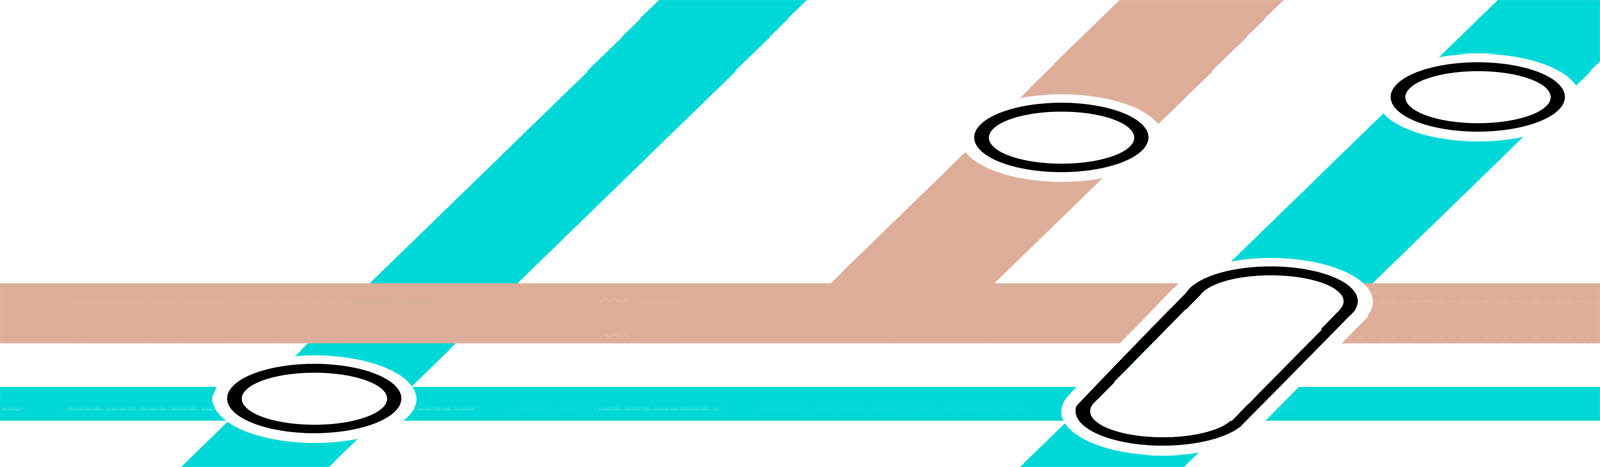
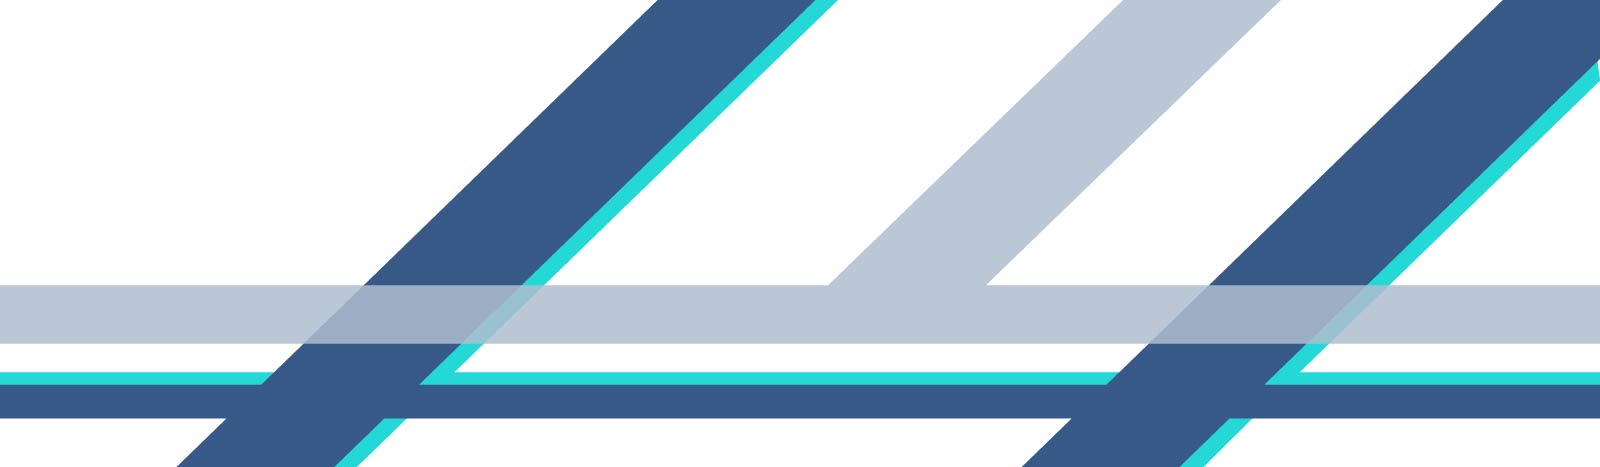
some style changes (frank)

diff --git a/src/index.html b/src/index.html
@@ -27,98 +27,116 @@
     <div class="inner">
 
 
-      <div class="hed">Transit tourism:<br>Explore Seattle by Link light rail</div>
+      <div class="hed">TRANSIT TOURISM</div>
+      <div class="divider"></div>
+      <div class="subhed">Explore Seattle by Link light rail</div>
 
       <div class="intro">
         <p class="byline">By Tyler Sipe and Lindsey Wasson
 
-        <p>It’s urban, suburban and industrial. At just over 20 miles long, Sound Transit’s Central <a href="http://www.soundtransit.org/Rider-Guide/Link-light-rail">Link Light Rail</a> connects more than a dozen diverse communities with 16 stations in King County.
+        <p>It’s urban, suburban and industrial. At just over 20 miles long, Sound Transit’s <a href="http://www.soundtransit.org/Rider-Guide/Link-light-rail">Central Link light rail</a> connects more than a dozen diverse communities with 16 stations in King County.
    
         <p>From the University of Washington on the north end, to SeaTac’s Angle Lake neighborhood on the south, users can explore and experience arts, culture, history and nature with a $6.50 all-day Sound Transit ticket.
 
         <p>See our <a href="http://www.seattletimes.com/category/seattle-newcomers-guide/">Seattle Newcomers Guide</a> to learn more about navigating area neighborhoods.
          
-        <p><em>Click a station below to learn more about the surrounding neighborhood.</em>
+        <p>Click a station below to learn more about the surrounding neighborhood.
       </div>
 
       <div class="nav-map"><%= t.include("./assets/lightRailStations.svg") %></div>
 
       <div class="desc selected" id="uw">
+        <div class="stop-title">University of Washington Station</div>
         <%= t.include("_galleryTemplate.html", {keyword: "uw"}) %>
         <%= markdown.uw %>
         <%= t.include("_topTemplate.html") %>
       </div>
       <div class="desc" id="capitol">
+        <div class="stop-title">Capitol Hill Station</div>
         <%= t.include("_galleryTemplate.html", {keyword: "capitol"}) %>
         <%= markdown.capitol %>
         <%= t.include("_topTemplate.html") %>
       </div>
       <div class="desc" id="westlake">
+        <div class="stop-title">Westlake Station</div>
         <%= t.include("_galleryTemplate.html", {keyword: "westlake"}) %>
         <%= markdown.westlake %>
         <%= t.include("_topTemplate.html") %>
       </div>
       <div class="desc" id="university">
+        <div class="stop-title">University Street Station</div>
         <%= t.include("_galleryTemplate.html", {keyword: "university"}) %>
         <%= markdown.university %>
         <%= t.include("_topTemplate.html") %>
       </div>
       <div class="desc" id="pioneer">
+        <div class="stop-title">Pioneer Square Station</div>
         <%= t.include("_galleryTemplate.html", {keyword: "pioneer"}) %>
         <%= markdown.pioneer %>
         <%= t.include("_topTemplate.html") %>
       </div>
       <div class="desc" id="international">
+        <div class="stop-title">International District/Chinatown Station</div>
         <%= t.include("_galleryTemplate.html", {keyword: "international"}) %>
         <%= markdown.international %>
         <%= t.include("_topTemplate.html") %>
       </div>
       <div class="desc" id="stadium">
+        <div class="stop-title">Stadium Station</div>
         <%= t.include("_galleryTemplate.html", {keyword: "stadium"}) %>
         <%= markdown.stadium %>
         <%= t.include("_topTemplate.html") %>
       </div>
       <div class="desc" id="sodo">
+        <div class="stop-title">SoDo Station</div>
         <%= t.include("_galleryTemplate.html", {keyword: "sodo"}) %>
         <%= markdown.sodo %>
         <%= t.include("_topTemplate.html") %>
       </div>
       <div class="desc" id="beacon">
+        <div class="stop-title">Beacon Hill Station</div>
         <%= t.include("_galleryTemplate.html", {keyword: "beacon"}) %>
         <%= markdown.beacon %>
         <%= t.include("_topTemplate.html") %>
       </div>
       <div class="desc" id="baker">
+        <div class="stop-title">Mount Baker Station</div>
         <%= t.include("_galleryTemplate.html", {keyword: "baker"}) %>
         <%= markdown.baker %>
         <%= t.include("_topTemplate.html") %>
       </div>
       <div class="desc" id="columbia">
+        <div class="stop-title">Columbia City Station</div>
         <%= t.include("_galleryTemplate.html", {keyword: "columbia"}) %>
         <%= markdown.columbia %>
         <%= t.include("_topTemplate.html") %>
       </div>
       <div class="desc" id="othello">
+        <div class="stop-title">Othello Station</div>
         <%= t.include("_galleryTemplate.html", {keyword: "othello"}) %>
         <%= markdown.othello %>
         <%= t.include("_topTemplate.html") %>
       </div>
       <div class="desc" id="rainier">
+        <div class="stop-title">Rainier Beach Station</div>
         <%= t.include("_galleryTemplate.html", {keyword: "rainier"}) %>
         <%= markdown.rainier %>
         <%= t.include("_topTemplate.html") %>
       </div>
       <div class="desc" id="tukwila">
+        <div class="stop-title">Tukwila International Boulevard Station</div>
         <%= t.include("_galleryTemplate.html", {keyword: "tukwila"}) %>
         <%= markdown.tukwila %>
         <%= t.include("_topTemplate.html") %>
       </div>
       <div class="desc" id="seatac">
+        <div class="stop-title">SeaTac/Airport Station</div>
         <%= t.include("_galleryTemplate.html", {keyword: "seatac"}) %>
         <%= markdown.seatac %>
         <%= t.include("_topTemplate.html") %>
       </div>
       <div class="desc" id="angle">
+        <div class="stop-title">Angle Lake Station</div>
         <%= t.include("_galleryTemplate.html", {keyword: "angle"}) %>
         <%= markdown.angle %>
         <%= t.include("_topTemplate.html") %>
@@ -128,6 +146,7 @@
         <div>Reporting by Tyler Sipe and Lindsey Wasson</div>
         <div>Design by Frank Mina</div>
         <div>Web development by Audrey Carlsen</div>
+        <div class="dateline">Originally published December 12, 2016.</div>
       </div>
 
     </div>
@@ -135,11 +154,11 @@
     <%= t.include("./partials/_dontMiss.html", { data: [
       { link: "http://projects.seattletimes.com/2016/st3-guide/", image: "st3.png", category: "Transportation", head: "ST3: What you'd pay, what you'd get" },
       { link: "http://projects.seattletimes.com/2016/quizzes/seattle-neighborhoods-quiz/", image: "neighborhoods.jpg", category: "Quiz", head: "New to Seattle? Find your neighborhood." },
-      { link: "http://www.seattletimes.com/life/food-drink/newcomers-guide-to-pho/", image: "pho.jpg", category: "Food & Drink", head: "A guide to pho — Seattle’s favorite soup-and-noodle dish" },
+      { link: "http://projects.seattletimes.com/2016/bus-sketches/", image: "bus.jpg", category: "Seattle Sketcher", head: "The bus riders of Seattle: their loves, frustrations — and hopes" },
       { link: "http://projects.seattletimes.com/2016/bhutan-to-tukwila/", image: "bhutan.jpg", category: "Photo & Video", head: "30 Days: A refugee family's first month in the U.S." }
     ]}) %>
 
-    <%= t.include("./partials/_ad.html", { type: "bannerBottom" }) %>
+    <div class="ad-bottom"><%= t.include("./partials/_ad.html", { type: "bannerBottom" }) %></div>
 
     <%= t.include("./partials/_navBottom.html") %>
 

diff --git a/src/css/seed.less b/src/css/seed.less
@@ -5,14 +5,15 @@
 .inner {
   max-width: 960px;
   margin: auto;
-  padding: 40px 10px;
-  padding-top: 0;
+  padding-bottom: 20px;
+  padding-left: 10px;
+  padding-right: 10px;
 }
 
 .hed {
   text-align: center;
   font-weight: bold;
-  font-size: 50px;
+  font-size: 60px;
   padding-top: 20px;
 
   @media @mobile {
@@ -20,8 +21,20 @@
   }
 }
 
+.divider {
+  border-top: 4px solid @df-middle-gray;
+  width: 40%;
+  margin: auto;
+}
+
+.subhed {
+  text-align: center;
+  font-size: 26px;
+  margin-top: 15px;
+}
+
 .intro {
-  max-width: 630px;
+  max-width: 720px;
   margin: auto;
   padding-bottom: 30px;
 }
@@ -30,7 +43,7 @@
   text-align: center;
   font-size: 16px;
   font-family: @df-sans;
-  margin-top: 10px;
+  margin-top: 20px;
   // font-style: italic;
 }
 
@@ -47,7 +60,7 @@
 }
 
 .desc {
-  margin-top: 100px;
+  margin-top: 80px;
 
   p:first-child {
     margin-top: 0;
@@ -98,12 +111,22 @@
   font-family: @df-sans;
   margin-top: 40px;
   font-size: 16px;
+  text-align: center;
 
   div {
     padding-bottom: 4px;
 
-    &:last-child {
+    &.dateline {
       padding-bottom: 0;
+      padding-top: 15px;
+      font-size: 14px;
+      font-style: italic;
     }
   }
 }
+
+.ad-bottom {
+  margin-bottom: 40px;
+  margin-top: 10px;
+}
+

diff --git a/src/_topTemplate.html b/src/_topTemplate.html
@@ -1,3 +1,3 @@
 <div class="top-wrapper">
-  <div class="top-button"><i class="fa fa-long-arrow-up" aria-hidden="true"></i> Top</div>
+  <div class="top-button"><i class="fa fa-angle-up" aria-hidden="true"></i> Top</div>
 </div>

diff --git a/src/columbia.md b/src/columbia.md
@@ -1,5 +1,3 @@
-<div class="stop-title">Columbia City Station</div>
-
 Brick and wood-framed buildings line [Columbia City’s quaint historic business district](http://www.columbiacityseattle.com/) on Rainier Avenue South. The neighborhood’s shops, restaurants and community spaces are a reflection of its diversity: you can find all kinds of food, from [African](http://www.seattletimes.com/life/food-drink/the-culinary-expanses-of-africa-at-a-small-columbia-city-spot/) to [Hawaiian](http://www.supersixseattle.com/) to [Caribbean](http://www.islandsoulrestaurant.com/); or snag a ticket to a Latino film festival or opera preview. Coffee shops and breweries abound, and entertainment is offered nightly at [Ark Lodge Cinemas](http://www.arklodgecinemas.com/), [Columbia City Theater](http://www.columbiacitytheater.com/), [Rainier Arts Center](http://www.rainierartscenter.org/), the [Royal Room](http://theroyalroomseattle.com/) and other venues. 
  
 Columbia City is a short five-minute walk from the station that bears its name. Close by are [Columbia Park](http://www.seattle.gov/parks/find/parks/columbia-park), an urban green space sandwiched between traditional Seattle bungalows and newer high-rise apartments; the century-old [Seattle Public Library’s Columbia Branch](http://www.spl.org/locations/columbia-branch); [Rainier Community Center](http://www.seattle.gov/parks/find/centers/rainier-community-center); and Genesee Park and Playfield, with its sports fields and off-leash dog area. The [Columbia City Farmer’s Market](http://seattlefarmersmarkets.org/markets/columbia-city) draws crowds every Wednesday to 37th Avenue South and South Edmunds Street from late spring to fall.

diff --git a/src/tukwila.md b/src/tukwila.md
@@ -1,5 +1,3 @@
-<div class="stop-title">Tukwila International Boulevard Station</div>
- 
 The Tukwila International Boulevard Station is located in the most diverse city in the Pacific Northwest. At nearby Foster High School, [more than 40 world languages are spoken](http://www.seattletimes.com/education-lab/the-revival-of-foster-high-a-school-filled-with-refugees-makes-a-comeback/), and flags from about 50 countries greet students in the cafeteria. Tukwila’s diversity is also illustrated through the many businesses found near the station. At nearby [Bakaro Mall](https://www.youtube.com/watch?v=F-n4akU0XwQ), a wide range of African-made products are sold, including fabrics, jewelry and beauty products. Global cuisine is also found in the shadows of the station, including Indian, Chinese, East African and Mexican food.
  
 A quick bus ride from the Tukwila station is [Westfield Southcenter mall](https://www.westfield.com/southcenter). At 1.7 million square feet, it is the largest shopping complex in the state, with more than 200 stores. Dozens of additional retail[ers and restaurants, large and small, anchor the periphery of the mall.

diff --git a/src/baker.md b/src/baker.md
@@ -1,5 +1,3 @@
-<div class="stop-title">Mount Baker Station</div>
- 
 The immediate environment surrounding the elevated Mount Baker Station has a suburban feel, with important Seattle arterials Martin Luther King Jr. Way and Rainier Avenue sprawling below. These two major north-south routes are lined with strip malls and medium-sized box stores, along with only-in-Seattle businesses like the [Oberto Sausage Company](https://www.oberto.com/) and [Borracchini’s Bakery](https://www.nowcake.com/). Coincidentally, Rainier Avenue once served as a thoroughfare for the Rainier Avenue Electric Railway, which connected Seattle with Renton.
  
 But also in the shadows of the station is an important and beautiful string of greenbelts to the south and west, which link the Mount Baker neighborhood to Beacon Hill’s Jefferson Park; and just east, near neoclassical Franklin High School, is a meandering greenbelt that follows Mount Baker Boulevard, leading urban wanderers past classic Craftsman-style homes to the shores of Lake Washington’s Mount Baker Beach and Colman Park.

diff --git a/src/beacon.md b/src/beacon.md
@@ -1,5 +1,3 @@
-<div class="stop-title">Beacon Hill Station</div>
-
 The Beacon Hill Station beams visitors up to the neighborhood’s leafy streets using four high-speed elevators. Above ground, pedestrians are welcomed into one of Seattle’s most diverse neighborhoods and treated to some of the city’s most impressive views.
  
 Many Beacon Hill locals relax in the Olmsted Brothers-planned Jefferson Park – the city’s sixth largest park — and its [historic golf course](http://www.seattletimes.com/sports/golf/jefferson-park-to-celebrate-its-100th-birthday-in-may/). The Seattle skyline serves as an impressive backdrop for this 50-acre oasis, where you can regularly watch a [game of lawn bowling](http://www.seattletimes.com/pacific-nw-magazine/ever-consider-lawn-bowling-perhaps-you-should-its-challenging-and-fun/), or skateboarders practicing their Ollies and Indy Grabs, kids splashing in a water park or photographers snapping photos of the Olympic Mountains or downtown.

diff --git a/src/othello.md b/src/othello.md
@@ -1,5 +1,3 @@
-<div class="stop-title">Othello Station</div>
-
 More than 40 languages are spoken in the [Othello neighborhood](http://www.helloothello.com/) — from Amharic to Vietnamese — making it the United Nations of Seattle.
  
 The community’s rich cultural diversity is omnipresent, and can be experienced in the businesses and organizations found close to the Othello Station along Martin Luther King Junior Way South: East African and Cambodian grocers and retailers sell familiar products to their respective communities or curious customers; the smells of lemongrass pho, or beef skirt steak carne asada, or pork and shrimp shumai greets pedestrians passing the dozens of restaurants dotting the neighborhood; and throughout the week, you can hear Christian service spoken in Tagalog, or Vietnamese singing coming from the neighborhood’s Buddhist monastery, or prayers in Arabic being recited at a local Islamic school.

diff --git a/src/westlake.md b/src/westlake.md
@@ -1,5 +1,3 @@
-<div class="stop-title">Westlake Station</div>
- 
 Visitors to Westlake Station will find themselves in the center of Seattle’s downtown retail district. [Westlake Center](https://www.westlakecenter.com/en.html), [Pacific Place](http://www.pacificplaceseattle.com/), Macy’s and Nordstrom offer hours of shopping on a four-block stretch. Hundreds of additional retailers and restaurants, both large and small, are located within just blocks of these four retail anchors.
  
 The [Seattle Center Monorail](http://www.seattlemonorail.com/) — a city landmark that drew early notables like President Richard Nixon and Elvis Presley – has a terminal within Westlake Center. Constructed for the 1962 World’s Fair along with the Space Needle, the monorail goes from Westlake to Seattle Center, speeding over downtown traffic at up to 45 mph, making a one-way trip in about 2 minutes.

diff --git a/src/university.md b/src/university.md
@@ -1,5 +1,3 @@
-<div class="stop-title">University Street Station</div>
- 
 The University Street Station serves the downtown financial district, and also provides easy access to some of downtown Seattle’s most notable arts and culture institutions.
  
 The station has a direct entrance to Benaroya Hall, home of the Seattle Symphony. Founded in 1903, the [Seattle Symphony](http://www.seattlesymphony.org/) often features classics like Dvorak, Beethoven and Bach; on a contemporary note, the group has also performed symphonic renditions of video-game music, a live soundtrack screening of “Psycho” and [Sir Mix-A-Lot’s “Baby Got Back.”](http://www.seattletimes.com/entertainment/sir-mix-a-lot-had-a-lot-of-fun-with-seattle-symphony/)

diff --git a/src/pioneer.md b/src/pioneer.md
@@ -1,5 +1,3 @@
-<div class="stop-title">Pioneer Square Station</div>
- 
 Referred to as the “heart of old Seattle,” this historic neighborhood is known for its contemporary art galleries, quirky businesses, casual saloons and pubs, and growing foodie scene.
  
 After originally landing at Alki in West Seattle, Seattle’s early pioneers made Pioneer Square a [permanent settlement](http://www.historylink.org/File/1956) in 1852. Oddly, the park bearing the neighborhood’s name is a triangle rather than a square — and is home to a Tlingit totem pole with its [own unique story](http://old.seattletimes.com/news/lifestyles/showingoff/07122002.html), as well as an iron pergola, erected in 1909 as a waiting shelter for a cable car.

diff --git a/src/international.md b/src/international.md
@@ -1,5 +1,3 @@
-<div class="stop-title">International District/Chinatown Station</div>
- 
 Seattle’s International District-Chinatown Station functions as a crossroads for Seattle’s Asian-American community, and for the city at large. The district is loosely divided into Chinatown, Japantown and Little Saigon neighborhoods.
  
 Architecture fans will find much to ogle here, including the historic arched interiors of Union Station, a former Union Pacific train station that now houses Sound Transit and private events. A block to the west lies the recently renovated King Street Station, a “Railroad Italianate” gem serving Amtrak passengers. To the east, visitors pass under the 45-foot-tall, ornate Historic Chinatown Gate.
